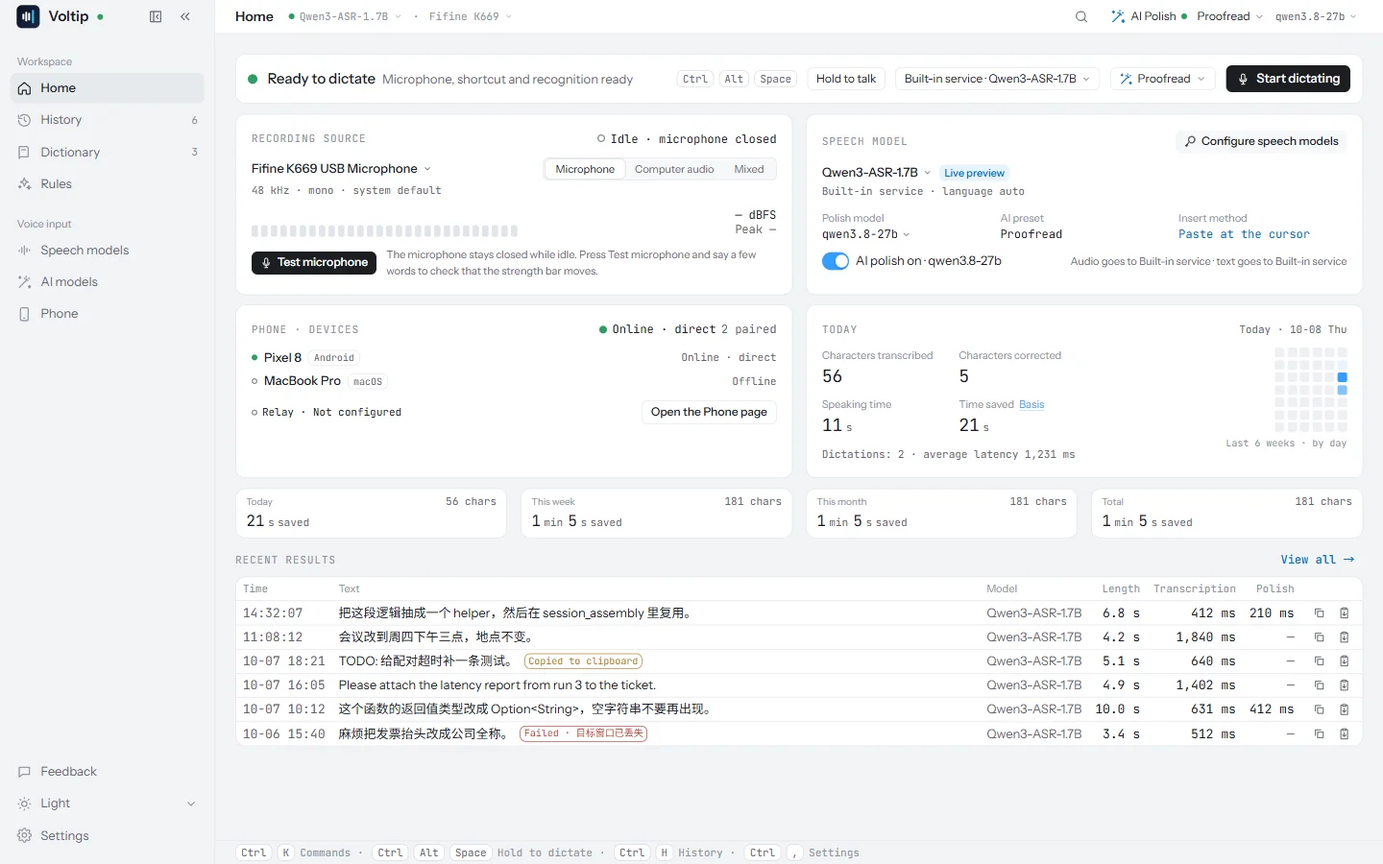
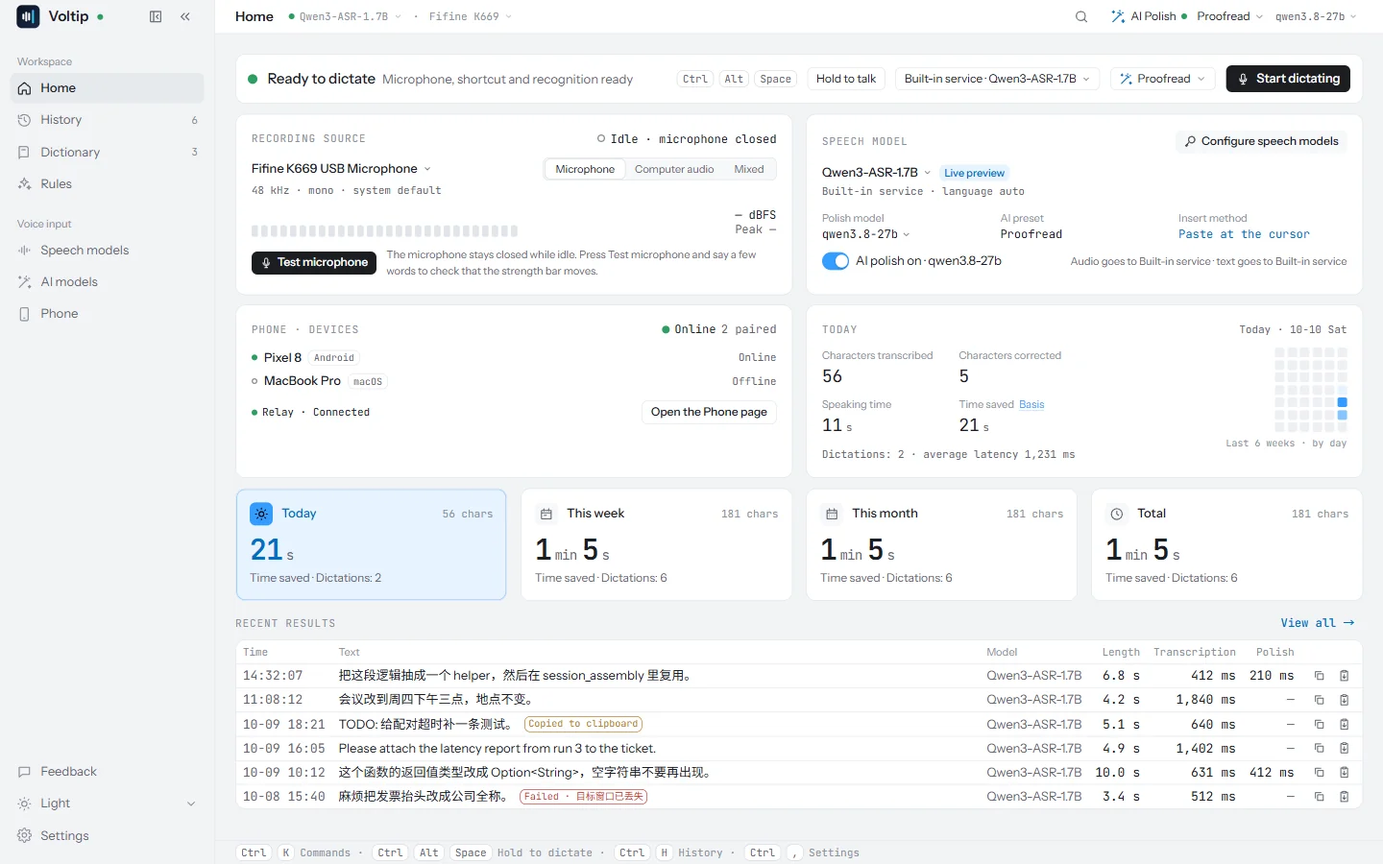
docs(voltip): sync from voltip@463c1a0
Source: https://github.com/sunerpy/voltip/commit/463c1a0e0ce2565a209d4f685dc5878d23672027

diff --git a/voltip/src/zh/dev/dictation.md b/voltip/src/zh/dev/dictation.md
@@ -323,7 +323,7 @@ pub struct HistoryEntry {
 - **每条的数字**：说话时长 = `duration_ms`；转录字数 = `raw_text` 的 Unicode 标量数；修正字数 = 去掉空白后 `raw_text` → `text` 的 Levenshtein 距离，按 Unicode 标量计（`strsim::generic_levenshtein`），超过 `CORRECTION_PIECE_CHARS = 2 000` 字时两边按相同比例切成同样多段，逐段相加；延迟 = `asr_ms + refine_ms`。
 - **分桶**：页面用 `statsBoundaries` 按本地时间算出零点，从本周一往前 5 周到明天零点，共 37–43 个；夏令时 23 或 25 小时的日子也按本地零点算。核心按 `[bᵢ, bᵢ₊₁)` 分桶，每个区间和总计都给出次数、转录字数、修正字数、说话时长和延迟合计。页面用这些区间拼出今天、本周、本月和 6 周热力图（本月的开头总在这 6 周里）。
 - **节省时间** = 说话时长 × 1.9（`SAVED_TIME_FACTOR`）。依据：Ruan 等 2016（arXiv:1608.07323）的实验里，说话输入比手机打字快约 2.9 倍（英文 153 vs 52 词/分，中文 123 vs 43），打出同样的字要多花约 1.9 倍的说话时长。首页的「依据」弹层写的是同一段说明。
-- **首页**：今日面板显示转录字数、修正字数、说话时长、节省时间，次数和平均延迟放在下面一行（窄窗口在两者之间换行），「依据」在「节省时间」旁；今天 / 本周 / 本月 / 总计四张卡第一行是范围和字数，第二行是节省时间。时长按大小换单位（`durationParts`：「21 秒」「3 分 47 秒」「79 小时 10 分」），数字大、单位小；侧栏的历史计数与页面上的计数一样加千位分隔。
+- **首页**：今日面板显示转录字数、修正字数、说话时长、节省时间，次数和平均延迟放在下面一行（窄窗口在两者之间换行），「依据」在「节省时间」旁；今天 / 本周 / 本月 / 总计四张卡（用户 2026-10-10 要求突出重点、加高）：第一行是范围的图标块（太阳、日历、月历、时钟）、范围名和字数，下面是节省时间（30 px 加粗的数字、14 px 的单位）和「节省时间 · 听写 N 次」；「今天」一张用强调色的浅色底与描边，图标块、范围名和数字都用强调色，其余三张是普通卡片。手机「记录」页的四格结构相同（「今天」用 `primaryContainer` 底、`primary` 图标块）。时长按大小换单位（`durationParts`：「21 秒」「3 分 47 秒」「79 小时 10 分」），数字大、单位小；侧栏的历史计数与页面上的计数一样加千位分隔。
 
 ## 5. IPC（bridge 与 TS 契约）
 
@@ -394,12 +394,13 @@ pub struct HistoryEntry {
 
 - **语言**：`Settings.locale`（`system` / `zh-cn` / `en`，`#[serde(default)]`，默认 `system`）由核心持久化并随 `settings` 事件广播，主窗口、胶囊窗口、手机端都读同一个值；语言解析（`system` → 跟随 OS / webview）在前端完成。`DictationPhase::Failed` 增加机器可读的 `code`（§2），前端据此本地化失败原因，`message` 仍是中文原文。
 - **开关**：`Settings.auto_update`（默认 **关**）由核心持久化；桌面 shell 订阅 `settings` 事件跟随它。
-- **更新源只来自编译期环境变量**，源码与 `tauri.conf.json` 都不含：`VOLTIP_UPDATE_URL`（静态 `latest.json` 清单地址，可含 `{{target}}` / `{{arch}}` / `{{current_version}}` / `{{bundle_type}}` 占位符）与 `VOLTIP_UPDATE_PUBKEY`（minisign 公钥）。缺任一个 → `UpdateStatus::Disabled`，`update_check` / `update_install` 返回 `updater: 此构建未配置更新源`。`tauri-plugin-updater` 初始化时需要 `plugins.updater` 配置块，shell 在 `run()` 里从这两个变量注入到 Tauri context，而不是写进配置文件。手机端永远 `disabled`（由应用商店更新）。
+- **更新源只来自编译期环境变量**，源码与 `tauri.conf.json` 都不含：`VOLTIP_UPDATE_URL`（静态 `latest.json` 清单地址，可含 `{{target}}` / `{{arch}}` / `{{current_version}}` / `{{bundle_type}}` 占位符）与 `VOLTIP_UPDATE_PUBKEY`（minisign 公钥）。缺任一个 → `UpdateStatus::Disabled`，`update_check` / `update_install` 返回 `updater: 此构建未配置更新源`。`tauri-plugin-updater` 初始化时需要 `plugins.updater` 配置块，shell 在 `run()` 里从这两个变量注入到 Tauri context，而不是写进配置文件。手机端的检查更新见 §20.9。
+- **更新镜像**（用户 2026-10-10：更新不应依赖 AWS，改用 Cloudflare 的免费资源）：可选的编译期变量 `VOLTIP_UPDATE_MIRROR` 是文档站更新通道的根地址（`https://voltip.firlab.app/updates`，发布构建取仓库变量 `vars.VOLTIP_UPDATE_MIRROR`，fork 没有这个变量就只问自己的 Release）。设置后清单地址依次为 `<mirror>/latest.json`、`VOLTIP_UPDATE_URL`：插件逐个请求，连接失败或返回非 2xx 就换下一个，安装包从答复的那份清单里的地址下载。镜像是 Cloudflare Pages Functions（`sunerpy/firlab` 的 `voltip/functions/updates/`）：清单由 GitHub 最新版本的 `latest.json` 生成，安装包地址改到 `<mirror>/download/<tag>/<file>`，缓存 5 分钟，GitHub 不可达时一周内回答最后一份可用的清单；某个机房第一次被请求某个文件时，先把它从 GitHub 拷进该机房的缓存（单个文件上限 512 MB），之后从缓存下载。镜像不签名任何东西，安装包照旧用内置公钥验签。值不是 http(s) 地址时忽略镜像、只用 `VOLTIP_UPDATE_URL`，不会因此关掉更新。2026-10-10 在中国大陆实测（直连、不走代理）：一台开发机经镜像下载 29 MB 安装包 7.2 s（约 4 MB/s），同一时段直连 GitHub 90 s 内没有收到数据；一台宁夏的 Windows 云主机经镜像 1.6–2.0 MB/s，直连 GitHub 0.3–2.1 MB/s，时段不同差别很大。
 - **状态**（`UiEvent::Update` / `UiState.update`，`#[serde(tag = "state")]`）：`idle` → `checking` → `up_to_date { version, checked_at }` | `available { version, current, notes?, date? }` → `downloading { version, received, total? }` → `ready { version }` → `installing { version }`；任一步失败 → `failed { message }`；未配置 → `disabled`。由 shell 产生，经 `Bridge::publish` 折叠进状态（同热键状态）。
 - **手动路径**：`update_check` 只问清单；`update_install`（「立即重启更新」）下载（带进度）→ 验签 → `ready` → `installing` → 安装：Windows 由 NSIS 安装器接管并自行重启应用；macOS / Linux 原地替换后 shell 请求 Tauri 重启进程。没有待安装包时 `update_install` 先检查一次。
 - **自动路径**（开关打开且构建带更新源）：启动 10 s 后检查，有新版本则后台下载到 `ready`，**不**安装；设置页显示「立即重启更新」。到达 `ready` 的版本记在 app data 目录的 `update-ready.json`；用户若直接退出再启动，下次启动检查到**同一版本**时立刻下载安装并重启（这就是「重启应用即可更新」）；比记录更新的版本仍先走 `ready`，从不悄悄安装用户没见过的包。运行中把开关打开会立即检查一次（只下载）。下载好的包不跨进程保留，所以第二次启动会重新下载。
 - **网络与失败原因**（用户报告 2026-09-29）：清单请求与安装包下载都设了连接超时 `CONNECT_TIMEOUT`（15 s，含 TCP 与 TLS）和读取超时 `READ_TIMEOUT`（30 s，任一次读取停顿超过即失败）；插件本身不设，原先要等操作系统放弃（Windows 约 20 s，其他系统更久），连接无响应时会一直停在「正在检查更新…」。`failed` 的 `message` 是完整的原因链（`update::describe`），例如 `error sending request for url (…): client error (Connect): tcp connect error: Connection refused (os error 111)`；原先只有第一段，看不出是 DNS、连接、TLS 还是超时。服务器返回非 2xx 时插件只报 `Could not fetch a valid release JSON from the remote`，不带状态码。代理：reqwest 未开 `system-proxy`，只认 `HTTP(S)_PROXY` 环境变量和 TUN，不读 Windows / macOS 的系统代理设置。
-- **发布侧**（本轮未做，记录在此）：产出 `.sig` 与 `latest.json` 需要 `bundle.createUpdaterArtifacts: true` 与 CI 上的 `TAURI_SIGNING_PRIVATE_KEY` / `TAURI_SIGNING_PRIVATE_KEY_PASSWORD`；清单托管地址即 `VOLTIP_UPDATE_URL`。
+- **发布侧**：产出 `.sig` 与 `latest.json` 需要 `bundle.createUpdaterArtifacts: true` 与 CI 上的 `TAURI_SIGNING_PRIVATE_KEY` / `TAURI_SIGNING_PRIVATE_KEY_PASSWORD`；`latest.json` 是 Release 的资产，`VOLTIP_UPDATE_URL` 即 `https://github.com/<owner>/<repo>/releases/latest/download/latest.json`（`docs/runbook.md` 发布）。本机打包取 `.env.build` 的同名变量：2026-10-10 本机测试包 0.0.53 的 `.env.build` 还是早已没有文件的旧网关镜像地址，检查更新报 403（`Could not fetch a valid release JSON from the remote`）与跨境 TLS 断开，`.env.build.example` 因此写明与发布相同的地址。
 
 
 ## 10. 本地模型（离线 ASR，2026-09-25 契约）
@@ -1467,7 +1468,7 @@ Rust：`voltip-protocol` `take_messages_roundtrip_and_are_validated`（含 `take
 - **角色**：`CoreConfig.sync_role`：桌面壳 `Computer`，手机壳 `Phone`，测试与工具默认 `Off`。电脑在每条新安全路径的 `device_info_update` 里带 `mirror: true`；手机只与宣告了它的电脑同步，没宣告的显示「电脑上的 Voltip 需要升级才能同步」。
 - **消息**（`voltip-protocol` `AppMessage`，`docs/protocol.md` §3）：`mirror_request{req, epoch?, since, profile?}`（手机 → 电脑）、`mirror_changed{head, generation}`、`mirror_revoke{generation}`、`phone_records_ack{ids}`（电脑 → 手机）、`bulk{seq, last, bytes}` 与 `bulk_ack{received}`（双向）。大的内容（`voltip-core` `sync::BulkBody`：`MirrorProfile`、`MirrorBatch`、`PhoneRecords`，CBOR，不超过 16 MiB）切成不超过 48 KiB 的片，在同一条安全路径上按序发出；拼接状态挂在这条路径的安全会话上，会话结束就丢掉，由上层超时重来。
 - **窗口**（`sync/bulk.rs`）：每条路径最多 4 片未确认，接收方每 2 片和最后一片回 `bulk_ack`；本地链路队列（`RelayLink::free_slots`）少于 17 个空位时不发下一片。同一条路径的帧经同一个队列、同一条连接按序到达，发送方要在对方回应它的新握手消息之后才能封装新会话的分片，所以旧会话与新会话的分片不会同时在接收方那条连接的队列里；同步对端最多 5 个（`voltip_identity::MAX_SYNC_PEERS`），中继每条连接上的分片至多 20 片，Bulk 层至多 30 帧，低于中继每连接 64 帧的队列（`RelayStats.dropped` 计数丢帧）。
-- **握手与旧帧**（`peer.rs` `PeerPath::classify`）：`SecureChannel::seal` 在密文会恰好是 32、96 或 64 字节（三条握手消息不带负载时的长度）时补一个零字节，所以传输帧不会被当成握手消息；握手只接受这一步应有长度的载荷，空闲路径只在 32 字节时开始应答，等第三条消息的应答方收到新的第一条消息时重新应答。中继路径的握手失败或超时后，发起方在对端仍在频道上时 2 秒后重来，逐次加倍到 60 秒，成功后复位。发起方发出第三条消息就进入加密通道，但这条消息可能在应答方等待超时之后才到，此时应答方已回到空闲，丢弃之后的一切。所以发起方在新通道上第一次解开对方的消息之前，通道算作未确认；建立后超过握手时限（`peer_handshake_timeout`）仍未确认，就按握手失败处理，回到空闲并按上面的退避重来。应答方的加密通道收到 32 字节的载荷，即发起方新的第一条消息，就丢弃旧通道、重新应答（2026-10-02，Windows 构建机上复现：应答方忙于处理上传，第三条消息晚到约 0.8 秒，手机的记录再也没有送到电脑）。
+- **握手与旧帧**（`peer.rs` `PeerPath::classify`）：`SecureChannel::seal` 在密文会恰好是 32、96 或 64 字节（三条握手消息不带负载时的长度）时补一个零字节，所以传输帧不会被当成握手消息；握手只接受这一步应有长度的载荷，空闲路径只在 32 字节时开始应答，等第三条消息的应答方收到新的第一条消息时重新应答。握手失败或超时后，发起方在对端仍在频道上时 2 秒后重来，逐次加倍到 30 秒（0.1.0 前为 60 秒），成功后复位。发起方发出第三条消息就进入加密通道，但这条消息可能在应答方等待超时之后才到，此时应答方已回到空闲，丢弃之后的一切。所以发起方在新通道上第一次解开对方的消息之前，通道算作未确认；建立后超过握手时限（`peer_handshake_timeout`）仍未确认，就按握手失败处理，回到空闲并按上面的退避重来。应答方的加密通道收到 32 字节的载荷，即发起方新的第一条消息，就丢弃旧通道、重新应答（2026-10-02，Windows 构建机上复现：应答方忙于处理上传，第三条消息晚到约 0.8 秒，手机的记录再也没有送到电脑）。
 - **电脑：变化的编号**（`history/revs.rs`，`history.sqlite3` 版本 2，只加表）：`sync_revs` 记每个条目最新的 rev 与删除记录，每个写操作在同一事务里取新 rev；比所有现存条目都早的删除记录被裁掉，`sync_floor` 记被裁掉的最大 rev。`changes_since(epoch, since, budget)`：空镜像、另一个历史库（`sync_epoch` 不同）、`since` 低于 floor 或高于 head 时，从 0 起只发现存条目（`reset`），否则发 `since` 之后的变化；按实际编码大小累计到 1 MiB，至少一条；`segments` 不发；编码超过 `MAX_BULK_BYTES - 64 KiB` 的条目改发有界投影（三段正文各 10 万字，其余字符串各 256 字，列进 `shortened`）。打开旧库时为已有条目补上 rev。
 - **电脑：答复与提示**（`runtime/sync.rs`）：收到请求时，这部手机的同步关着就回 `mirror_revoke`，否则替换它的待答请求（丢掉还没发完的旧回复），记为订阅者；随后设置标签不同时先发 `MirrorProfile`，再发一批 `MirrorBatch`。历史或设置变化后的下一个 tick，给每个订阅者发 `mirror_changed`，每部手机同时至多一条没有得到回应（下一个请求之前不再发；发 `mirror_revoke` 时这道限制重新开始）。
 - **电脑：收下手机的记录**：`insert_received` 写入一次（`origin = { device: 手机名, kind: standalone }`，`segments` 置空），id 已在历史或 90 天内收过的不再写入（所以电脑删掉的副本不会因为重发复活），然后对整批回 `phone_records_ack`。电脑关闭了历史记录时照样确认，但不写入。
@@ -1476,7 +1477,7 @@ Rust：`voltip-protocol` `take_messages_roundtrip_and_are_validated`（含 `take
 - **手机：上传**（2026-10-02 决定：上传副本，手机保留）：发件箱是手机自己 `history.sqlite3` 里 `origin` 为空、不在 `uploaded` 表里的条目，按时间从旧到新（发给电脑的听写的记录 `origin` 为 `sent`，不在其中，电脑已有自己的记录）；`uploaded` 引用 `entries` 并级联删除，迟到的确认只给仍存在的条目写行。一次只有一批在途（至多 200 条、1 MiB，超过 `MAX_BULK_BYTES - 64 KiB` 的条目跳过并列进 `UiState.phone_outbox_too_large`），发给本次上线最早的电脑；最后一片发出后 60 秒没有确认就重新选择，新路径上的设备信息让在途的一批重发一次。只同步按配对时间最早的 5 台电脑。
 - **开关**：可信记录的 `sync` / `sync_gen`（`docs/pairing.md`「同步与重新配对」）；`device_sync_set { publicKey, on }` 只在电脑上有效：关闭时发 `mirror_revoke`（在线时），之后的请求与上传都回 `mirror_revoke`；打开时发 `mirror_changed`，手机从 0 重新拉取。第 6 部手机打不开（「最多与 5 部手机同步」）。
 - **桥接与界面**：`mirror_history_query { desktop, … }`、`mirror_history_entry { desktop, id }`（带 `shortened`）、`mirror_profile { desktop }`；`UiState.mirrors`（每台电脑的状态 `syncing` / `up_to_date` / `offline` / `revoked` / `needs_upgrade` / `limit`、条数、最近同步时间、不带四个列表的设置）。手机「记录」页顶部切换「这部手机 / 电脑名」（选中的电脑是导航栈里这一页的参数，打开详情再返回仍在这台电脑，从标签栏回来是「这部手机」），电脑视图只读：没有统计、收藏、删除和重新处理；详情可以复制、分享（超过 `MAX_PASTE_TEXT_CHARS` 时写明无法整段复制），被截短的条目写明。「设置 › 电脑」每台电脑一行，点开是只读的「电脑设置」页。电脑设备页每部手机一个「同步」开关，忘记离线手机时确认框写明它上面的副本会保留。
-- **门禁**：`crates/voltip-core/tests/sync.rs`（17 个场景，真实中继：历史到达与跟随、3000 条分批、设置、进程被杀、确认丢失与防复活、开关与丢失的撤销、重新配对、过大记录、慢的手机、5 部手机同时、局域网路径中途断开、旧会话分片在重新 attach 后到达新连接（含手机进程重启））；`history/tests.rs`、`sync/{bulk,wire,mirror}.rs`、`peer.rs`、`trusted.rs`、`secure.rs` 的单测（各回归测试在没有修复时失败）；IPC 夹具与 `ipc-contract.test.ts`；手机 `Mirror.test.tsx`、电脑 `Devices.test.tsx`；两个壳的 `tests/ipc.rs`。真机项见 `docs/acceptance/android/manual-checklist.md` 第 14–16 项。
+- **门禁**：`crates/voltip-core/tests/sync.rs`（17 个场景，真实中继：历史到达与跟随、3000 条分批、设置、进程被杀、确认丢失与防复活、开关与丢失的撤销、重新配对、过大记录、慢的手机、5 部手机同时、中继路径中途无声断开（0.1.0 前是局域网路径）、旧会话分片在重新 attach 后到达新连接（含手机进程重启））；`history/tests.rs`、`sync/{bulk,wire,mirror}.rs`、`peer.rs`、`trusted.rs`、`secure.rs` 的单测（各回归测试在没有修复时失败）；IPC 夹具与 `ipc-contract.test.ts`；手机 `Mirror.test.tsx`、电脑 `Devices.test.tsx`；两个壳的 `tests/ipc.rs`。真机项见 `docs/acceptance/android/manual-checklist.md` 第 14–16 项。
 
 ### 20.9 手机更新（2026-10-02 用户要求）
 
@@ -1484,7 +1485,7 @@ Rust：`voltip-protocol` `take_messages_roundtrip_and_are_validated`（含 `take
 
 - **来源**：启动后读一次系统记录的安装来源（Android 11 起 `getInstallSourceInfo`，之前 `getInstallerPackageName`；React Native 版在 `VoltipHost.kt` 的 `installer()`，Tauri 版在 `UpdatePlugin.kt`），读到之前 `update_check` 与 `update_install` 被拒（`updater: 正在读取安装来源，请稍后再试`）。`com.android.vending`（Google Play）为 `InstallSource::Store`；其他情况（打开 GitHub 发布页安装包的浏览器或文件管理器、`adb`、没有记录）为 `Direct`。
 - **Google Play 安装**：读到安装来源后即为 `UpdateStatus::Store { version }`（`store`）。`update_check` 不访问任何地方，`Settings.auto_update` 也不触发检查；`update_install` 在浏览器中打开 `https://play.google.com/store/apps/details?id=<包名>`，Android 会交给 Play 应用。不引入 Play Core 的应用内更新库：它是专有许可，与 AGPL 不兼容，而 Google Play 本身会自动更新应用。
-- **其他安装**：状态从 `idle` 开始。`update_check` 在后台查询 `https://api.github.com/repos/<owner>/<repo>/releases/latest`（由 `REPOSITORY` 得出，带 User-Agent，连接 10 s、读取 30 s）。标签 `vX.Y.Z` 按数字比较：更新则为 `available { version, current, notes（发布说明）, date（published_at） }`，并记下资产 `Voltip_<版本>_android_arm64.apk` 的地址；不更新则为 `up_to_date`；新版本缺少 APK、版本号无法识别、403/429（GitHub 每小时的查询次数有限）或其他失败为 `failed { message }`。检查进行中再次检查会被拒（`updater: 正在检查更新`）。
+- **其他安装**：状态从 `idle` 开始。`update_check` 在后台依次查询 `<mirror>/android.json`（构建带 `VOLTIP_UPDATE_MIRROR` 时，§9）与 `https://api.github.com/repos/<owner>/<repo>/releases/latest`（由 `REPOSITORY` 得出），第一个答复的为准，都失败时报镜像的原因（`无法连接更新服务器：…`）；带 User-Agent，连接 10 s、读取 30 s。镜像的 `android.json` 与 GitHub 最新版本接口同形（`tag_name`、`body`、`published_at`、`assets`），APK 地址在镜像上。标签 `vX.Y.Z` 按数字比较：更新则为 `available { version, current, notes（发布说明）, date（published_at） }`，并记下资产 `Voltip_<版本>_android_arm64.apk` 的地址；不更新则为 `up_to_date`；新版本缺少 APK、版本号无法识别、403/429（GitHub 每小时的查询次数有限）或其他失败为 `failed { message }`。检查进行中再次检查会被拒（`updater: 正在检查更新`）。
 - **安装**：`update_install` 在浏览器中打开新版本的 APK，由浏览器下载，用户打开后由系统安装；Android 只接受与已安装版本签名相同的安装包。应用本身不下载、不安装：Google Play 不允许上架的应用绕过 Play 自行更新，所需的 `REQUEST_INSTALL_PACKAGES` 权限也不能用于这个目的，而 APK 与 Google Play 的 AAB 来自同一份清单。没有检查到新版本时，`update_install` 被拒（`updater: 没有可下载的新版本，请先检查更新`）。
 - **自动检查**：跟随 `Settings.auto_update`（默认关闭，与电脑相同）：启动时已开启，10 s 后检查一次；之后开启，立即检查一次。
 - **界面**：设置 › 关于 的「软件更新」卡片。Google Play 安装显示「由 Google Play 更新」和「在 Google Play 中打开」；其他安装显示状态行（与电脑的措辞相同）、有新版本时的更新说明和「下载新版本」、「检查更新」，以及「自动检查更新」开关。

diff --git a/voltip/src/zh/dev/frontend.md b/voltip/src/zh/dev/frontend.md
@@ -30,13 +30,12 @@ Tauri command 名与参数（`invoke(name, args)`），返回值 JSON：
 | `pairing_start` | — | `null` |
 | `pairing_join_code` | `{ code: string }` | `null` |
 | `pairing_join_ticket` | `{ uri: string }` | `null` |
-| `pairing_join_nearby` | `{ fingerprint: string }` | `null`（`docs/pairing.md`「局域网发现」：加入 `UiState.nearby` 里这台设备等待的配对；没看到它或它不在配对为 `error` 事件） |
 | `pairing_confirm` / `pairing_reject` / `pairing_cancel` / `pairing_reset` | — | `null` |
 | `device_forget` | `{ publicKey: hex }` | `null` |
 | `device_rename` | `{ name: string }` | `null` |
 | `send_text` | `{ publicKey: hex, body: string }` | `null` |
 | `settings_set_relay` | `{ url: string \| null, enabled: boolean }` | `null` |
-| `settings_set_lan_discovery` | `{ enabled: boolean }` | `null`（持久化 `Settings.lan_discovery` 并回发 `settings`，随即开始或停止公布与浏览） |
+| `relay_reconnect` | — | `null`（`docs/pairing.md`「重连」：网络恢复或窗口回到前台时，中继连接立即检查一次；桌面主窗口在 `online` 与 `visibilitychange` 时发送） |
 | `settings_set_pairing_always_on` | `{ enabled: boolean }` | `null`（`docs/pairing.md`「常开配对」：持久化 `Settings.pairing_always_on` 并回发 `settings`；打开即开一个会话，关掉即关闭还没人加入的会话；手机上为 `error` 事件） |
 | `settings_set_theme` | `{ theme: ThemeId, followSystem: boolean }` | `null` |
 | `devices_refresh` | — | `null` |
@@ -87,7 +86,7 @@ type OutputMode = "whole_take" | "streaming_final" | "live_inject"; // docs/dict
 type Activation = "hold" | "toggle" | "hold_or_toggle";               // docs/dictation.md §13
 type ProviderId = "builtin" | "local" | "openai" | "groq" | "siliconflow" | "aliyun" | "deepseek" | "ollama" | "custom"; // docs/dictation.md §3
 interface EngineSettings { asr_provider: ProviderId /* default "builtin" */; llm_provider: ProviderId /* default "builtin" */; refine_enabled: boolean; providers: Partial<Record<ProviderId, { asr_model?: string; asr_url?: string; llm_model?: string; llm_url?: string }>>; local_model?: string | null; local_device: "auto" | "cpu" | "gpu"; local_gpu?: string | null; local_threads?: number | null /* §10.6 */; language?: string; live_preview: boolean /* default true, §11 */; output_mode: OutputMode /* default "whole_take" */; vad_trim: boolean /* default false */; chinese_script: "simplified" | "traditional" | "as_is" /* default "simplified", §17 */; inject: "paste" | "clipboard_only" }
-interface Settings { schema: 1; theme: ThemeId; follow_system_theme: boolean; relay_url?: string; relay_enabled: boolean; hotkey: string; engines: EngineSettings; locale: "system" | "zh-cn" | "en" /* default "system" */; auto_update: boolean /* default false */; activation: Activation /* default "hold" */; hold_threshold_ms: number /* default 300 */; extra_recording_ms: number /* default 0 */; edit_hotkey: string | null /* §19，default "Ctrl+Alt+E"，null = 关闭 */; solo_key: SoloKey | null /* §13.1，default null = 关闭 */; lan_discovery: boolean /* docs/pairing.md，default true */; pairing_always_on: boolean /* docs/pairing.md「常开配对」，default false */ }
+interface Settings { schema: 1; theme: ThemeId; follow_system_theme: boolean; relay_url?: string; relay_enabled: boolean; hotkey: string; engines: EngineSettings; locale: "system" | "zh-cn" | "en" /* default "system" */; auto_update: boolean /* default false */; activation: Activation /* default "hold" */; hold_threshold_ms: number /* default 300 */; extra_recording_ms: number /* default 0 */; edit_hotkey: string | null /* §19，default "Ctrl+Alt+E"，null = 关闭 */; solo_key: SoloKey | null /* §13.1，default null = 关闭 */; pairing_always_on: boolean /* docs/pairing.md「常开配对」，default false */ }
 interface DeviceIdentityPublic { device_id: string; name: string; platform: Platform; public_key: string /* 64 hex */; fingerprint: string /* "A7:C4:19:8E · 3D:F2:61:09" */ }
 interface RelayStatus { endpoint?: string; state: ConnectionState; attempts: number }
 type PairingState = { state: "idle" | "creating_session" | "waiting_for_peer" | "key_exchange" | "awaiting_verification" | "trusted" | "expired" | "rejected" }
@@ -95,8 +94,8 @@ type PairingState = { state: "idle" | "creating_session" | "waiting_for_peer" | 
 interface SafetyCode { words: [string, string, string, string]; fingerprint: string }
 interface DeviceInfo { device_id: string; name: string; platform: Platform }
 interface Snapshot { state: PairingState; session_id?: string; code?: string /* "483 921" */; ticket_uri?: string; expires_at?: number; remaining_secs?: number; safety_code?: SafetyCode; peer?: DeviceInfo; local_confirmed: boolean; peer_confirmed: boolean }
-interface TrustedDevice { device_id: string; name: string; platform: Platform; public_key: string; fingerprint: string; trusted_at: number; last_seen?: number; last_connection?: "direct" | "relay" }
-type DeviceConnection = { state: "offline" } | { state: "connecting" } | { state: "online"; via: "direct" | "relay" } | { state: "identity_changed"; presented_fingerprint: string };
+interface TrustedDevice { device_id: string; name: string; platform: Platform; public_key: string; fingerprint: string; trusted_at: number; last_seen?: number }
+type DeviceConnection = { state: "offline" } | { state: "connecting" } | { state: "online" } | { state: "identity_changed"; presented_fingerprint: string };
 interface DeviceView { device: TrustedDevice; connection: DeviceConnection }
 interface Segment { text: string; start_ms: number; end_ms: number }
 interface LiveText { committed: Segment[]; current: string; degraded?: string; injected: number /* default 0：live_inject 已粘贴的句数（§12） */ }
@@ -117,14 +116,13 @@ interface Scene { id: string; name: string; enabled: boolean; match: { apps: str
 interface AppRef { id: string; name: string }
 interface TakeContext { app: AppRef; scene?: { id: string; name: string } } // DictationStatus.context?、HistoryEntry.app? / scene?
 interface ContextSharing { app_name: boolean /* default true */; window_title: boolean /* default false */ } // Settings.context_sharing
-interface NearbyDevice { fingerprint: string /* 16 位十六进制 */; name: string; platform: Platform; pairing: boolean; trusted: boolean } // docs/pairing.md「局域网发现」
-interface UiState { identity: DeviceIdentityPublic | null; settings: Settings; secret_backend: string; relay: RelayStatus; pairing: Snapshot; devices: DeviceView[]; hotkey: HotkeyStatus; dictation: DictationStatus; history_recent: HistoryEntry[] /* 最新 20 条，每行可带 vocabulary?: { corrections, rules }（命中的 id 与次数） */; history_total: number /* 全部条数，其余用 history_query 读 */; engines: EngineStatus; update: UpdateStatus; models: ModelState[]; dictionary: DictionaryEntry[]; rules: ReplacementRule[]; nearby: NearbyDevice[] /* 局域网浏览看到的设备，default [] */ }
+interface UiState { identity: DeviceIdentityPublic | null; settings: Settings; secret_backend: string; relay: RelayStatus; pairing: Snapshot; devices: DeviceView[]; hotkey: HotkeyStatus; dictation: DictationStatus; history_recent: HistoryEntry[] /* 最新 20 条，每行可带 vocabulary?: { corrections, rules }（命中的 id 与次数） */; history_total: number /* 全部条数，其余用 history_query 读 */; engines: EngineStatus; update: UpdateStatus; models: ModelState[]; dictionary: DictionaryEntry[]; rules: ReplacementRule[] }
 type UiEvent = { type: "state" } & UiState | { type: "identity" } & DeviceIdentityPublic | { type: "settings" } & Settings | { type: "relay" } & RelayStatus
   | { type: "pairing" } & Snapshot | { type: "devices"; 0?: never } /* payload is the array: see below */ | { type: "trusted" } & TrustedDevice
   | { type: "identity_changed"; previous: TrustedDevice; presented_fingerprint: string } | { type: "message"; from: string; body: string } | { type: "error"; message: string }
   | { type: "hotkey" } & HotkeyStatus | { type: "dictation" } & DictationStatus | { type: "history"; recent: HistoryEntry[]; total: number } | { type: "engines" } & EngineStatus | { type: "update" } & UpdateStatus
   | { type: "models"; models: ModelState[] } | { type: "dictionary"; entries: DictionaryEntry[] } | { type: "rules"; rules: ReplacementRule[] }
-  | { type: "scenes"; scenes: Scene[] } /* UiState.scenes，整份替换 */ | { type: "nearby"; devices: NearbyDevice[] } /* UiState.nearby，整份替换 */;
+  | { type: "scenes"; scenes: Scene[] } /* UiState.scenes，整份替换 */;
 ```
 
 注意 serde 内部标签的细节：`UiEvent::Devices(Vec<DeviceView>)` 与 `UiEvent::State(UiState)` 等 newtype 变体在 JSON 中是 `{"type":"devices", ...}`？**不是**——serde 对 tagged newtype 变体的规则：结构体内容被展平（`state`、`identity`、`settings`、`relay`、`pairing`、`trusted` 都是结构体，会展平成 `{type, ...fields}`），而 `devices` 的内容是数组，serde 无法展平，Rust 侧已改为 `{"type":"devices","devices":[...]}`。用 zod 按上述形状校验，校验失败记录并忽略该事件。

diff --git a/voltip/src/zh/dev/threat-model.md b/voltip/src/zh/dev/threat-model.md
@@ -14,13 +14,12 @@
 | 协议降级 | `version` 强制校验；不支持则断开 | `unsupported_version_disconnects` |
 | DoS 单连接刷会话 | 每连接最多 1 个活动会话；`create_session` 每 IP 每分钟 10 次 | `session_create_rate_limit` |
 
-| LAN 主机暴露在局域网 | 主机只承载配对会话与会合频道；`attach` 者仍要过 Noise XX，身份不符即 `IdentityChanged`；频道最多 2 人；`direct_hints` 只接受 `ip:port` 字面量（不解析主机名），且只来自认证通道 | `lan_host_mode_keeps_one_pairing_session_but_serves_channels`、`direct_hints_are_bounded_and_must_be_socket_addrs`、`regression_relay_compromise_impostor_on_channel_is_flagged_not_trusted` |
-| 恶意 peer 让我拨任意 `ip:port` | hints 上限 4 个、每 tick 每设备最多一条出站连接、指数退避、连接超时 3 s；连接只做 WebSocket + 本协议 `hello` | `direct_hints_persist_survive_retrust_and_are_validated` |
+| 无声断开的连接占住频道（`channel_full`），配对设备一直连不上 | 中继每 10 s ping 每条连接，25 s 没有任何消息就关闭它并通知对方；客户端在 `channel_full` 时每 4 s 重新 attach（`docs/pairing.md`「重连」）。0.1.0 起 App 不再在局域网上监听配对与会合端口 | `regression_a_connection_gone_silent_gives_up_its_place_on_the_channel`、`regression_a_path_that_breaks_without_a_word_heals_on_its_own` |
 | 本机语音服务被其他用户、网页或局域网滥用（`docs/dictation.md` §23） | 默认只监听回环地址，`voltip-server` 监听其他地址必须加 `--allow-remote`（并警告明文），App 只监听 127.0.0.1；除 `/healthz` 外每个请求都要 32 字节随机令牌（0600 文件，常量时间比较，可随时更换），没有关闭认证的选项；不返回 CORS 头，网页读不到响应；并发与排队有上限，时长、请求体和字段有界限，原始上传不落盘；日志不记文字、音频和令牌；无头服务端只读钥匙串与 App 的文件；没有钥匙串时可以从 `VOLTIP_KEY_*` 环境变量读取密钥（只在 voltip-server，文档建议 0600 的 EnvironmentFile；同一用户的进程能读到服务的环境变量，这一点写在文档里），`--check` 和日志只给变量名 | `the_token_guards_everything_but_the_health_check`、`malformed_and_oversized_requests_are_refused`、`a_waiting_request_reads_nothing_until_it_has_a_permit_and_a_full_queue_is_refused`（`voltip-serve`）；`the_command_line_names_the_service_and_its_one_shot_actions`、`print_token_creates_the_token_once_and_prints_it_again`（`voltip-server`）；`peek` 的零写入测试（`voltip-identity`）；`keys_from_the_environment_win_over_the_keychain_and_are_named_never_printed`（`voltip-server`） |
 
 ## 已知缺口
 
 - `forward` 洪泛：Relay 对已加入会话 / 频道的转发不限速；应加每连接字节 / 帧速率上限。
-- 频道标签可被知道两把公钥的人计算出来（公钥不是秘密），攻击者可占位造成 `channel_full`（公共 Relay 与 LAN 主机同样适用）；缓解：attach 需要对频道所有者的签名挑战（下一版协议）。
+- 频道标签可被知道两把公钥的人计算出来（公钥不是秘密），攻击者可占位造成 `channel_full`；缓解：attach 需要对频道所有者的签名挑战（下一版协议）。
 - 桌面端 keyring 在 Linux 依赖 Secret Service（无守护进程时 `StoreUnavailable`，应用拒绝降级到明文文件）。
 - 本机语音服务的令牌对同一用户的所有进程可读（这就是给其他程序用的）：能读到这个文件的程序就能使用服务，包括它背后的内置服务额度。`--allow-remote` 时令牌以明文 HTTP 传输，应改用 SSH 隧道或 TLS 反向代理。

diff --git a/voltip/src/guide/updates.md b/voltip/src/guide/updates.md
@@ -24,9 +24,9 @@ On a Mac, updating from 0.0.6 or earlier asks for the permissions once more; see
 On the phone, updates are under **Settings → About**, and how they work depends on where the app came from:
 
 - Installed from Google Play, it is updated by Google Play. **Open in Google Play**, under **Updated by Google Play**, opens its page there.
-- Installed from a GitHub release, **Check for updates**, under **Updates**, asks GitHub for the latest release. When there is a newer one, **Download the new version** downloads its installer in the browser; open it when it is done to update. Your pairing, settings and history are kept. **Check automatically**, off by default, checks each time Voltip starts.
+- Installed from a GitHub release, **Check for updates**, under **Updates**, looks for the latest release on this site and then on GitHub. When there is a newer one, **Download the new version** downloads its installer in the browser; open it when it is done to update. Your pairing, settings and history are kept. **Check automatically**, off by default, checks each time Voltip starts.
 
-Android only installs an update signed like the version you have. GitHub answers a limited number of queries per hour from each network address; when the message says so, try again later.
+Android only installs an update signed like the version you have. When this site cannot be reached, Voltip asks GitHub, which answers a limited number of queries per hour from each network address; when the message says so, try again later.
 
 Voltip 0.0.50 does not check for updates, and its **About** page has no **Updates** section. Google Play updates a copy it installed; for a copy from a GitHub release, download `Voltip_<version>_android_arm64.apk` from the new release and open it: it installs over the old version. Voltip 0.0.49 and earlier find the new version with **Check for updates** as above.
 
@@ -34,7 +34,9 @@ Voltip 0.0.50 does not check for updates, and its **About** page has no **Update
 
 The text after **Update failed** names the cause, for example that the connection timed out, was refused or could not be secured. Voltip gives up when a connection to the update server takes longer than 15 seconds to open, or when the server sends nothing for 30 seconds.
 
-Updates are downloaded from GitHub. Voltip does not use the proxy set in the Windows or macOS settings. If you reach GitHub through a proxy tool, use its TUN mode, or set the `HTTPS_PROXY` environment variable and start Voltip again.
+Voltip looks for updates on this site first and downloads them from here; this site serves the same files as the GitHub release, and Voltip checks every package against its signature before installing it. When this site cannot be reached, Voltip asks GitHub instead. Voltip does not use the proxy set in the Windows or macOS settings. If you reach the internet through a proxy tool, use its TUN mode, or set the `HTTPS_PROXY` environment variable and start Voltip again.
+
+Voltip 0.0.52 and earlier ask GitHub only.
 
 ## Where your data is kept
 

diff --git a/voltip/src/zh/guide/updates.md b/voltip/src/zh/guide/updates.md
@@ -24,9 +24,9 @@ Voltip 在应用内更新。在「设置 → 通用」中：
 手机上的更新在「设置 → 关于」中，方式取决于应用从哪里安装：
 
 - 从 Google Play 安装的，由 Google Play 自动更新。「由 Google Play 更新」中的「在 Google Play 中打开」打开它在 Google Play 上的页面。
-- 从 GitHub 发布页安装的，「软件更新」中的「检查更新」会查询 GitHub 上的最新发布。有新版本时，「下载新版本」在浏览器中下载它的安装包，下载完成后打开即可更新，配对、设置和记录都会保留。「自动检查更新」默认关闭；开启后，Voltip 每次启动时检查一次。
+- 从 GitHub 发布页安装的，「软件更新」中的「检查更新」先在本站查询最新发布，再查询 GitHub。有新版本时，「下载新版本」在浏览器中下载它的安装包，下载完成后打开即可更新，配对、设置和记录都会保留。「自动检查更新」默认关闭；开启后，Voltip 每次启动时检查一次。
 
-Android 只接受与已安装版本签名相同的安装包。GitHub 对每个网络地址每小时的查询次数有限，看到「每小时的查询次数有限」时，稍后再试即可。
+Android 只接受与已安装版本签名相同的安装包。本站无法访问时，Voltip 改为查询 GitHub；GitHub 对每个网络地址每小时的查询次数有限，看到「每小时的查询次数有限」时，稍后再试即可。
 
 Voltip 0.0.50 不检查更新，「关于」中没有「软件更新」。从 Google Play 安装的由 Google Play 更新；从 GitHub 发布页安装的，从新版本的发布中下载 `Voltip_<版本>_android_arm64.apk` 并打开，即可覆盖安装。0.0.49 及更早的 Voltip 同样用「检查更新」找到新版本。
 
@@ -34,7 +34,9 @@ Voltip 0.0.50 不检查更新，「关于」中没有「软件更新」。从 Go
 
 「更新失败」后面的文字会说明原因，例如连接超时、连接被拒绝或无法建立安全连接。与更新服务器建立连接超过 15 秒，或服务器 30 秒内没有发送任何数据时，Voltip 停止这次检查。
 
-更新从 GitHub 下载。Voltip 不使用 Windows 或 macOS 设置中的代理。如果你通过代理工具访问 GitHub，请使用它的 TUN 模式，或设置环境变量 `HTTPS_PROXY` 后重新启动 Voltip。
+Voltip 先在本站检查更新并从本站下载。本站提供的文件与 GitHub 发布页上的相同，Voltip 安装前会校验每个安装包的签名。本站无法访问时，Voltip 改为连接 GitHub。Voltip 不使用 Windows 或 macOS 设置中的代理。如果你通过代理工具上网，请使用它的 TUN 模式，或设置环境变量 `HTTPS_PROXY` 后重新启动 Voltip。
+
+0.0.52 及更早的 Voltip 只连接 GitHub。
 
 ## 数据保存位置
 

diff --git a/voltip/src/phone/index.md b/voltip/src/phone/index.md
@@ -44,12 +44,12 @@ When a paired computer is online, the button reads **Send to** and the computer'
 Pairing connects one phone and one computer, once:
 
 1. On the computer, open the **Phone** page and start pairing. It shows a QR code and a 6-digit code, valid for 120 seconds.
-2. On the phone, scan the QR code, enter the 6-digit code, or tap the computer under **Computers nearby** when both are on the same network.
+2. On the phone, scan the QR code or enter the 6-digit code.
 3. Both screens show the same safety code. Check that they match, then confirm on both devices. If they do not match, reject the pairing.
 
 **Always-on pairing** on the computer keeps a pairing open for the next phone, renewing the QR code before it expires, until you turn it off. Every pairing still needs the safety code confirmed on the computer.
 
-**LAN discovery**, on by default, lets phones on the same network find the computer by name and lets paired devices find each other again after an address change. Turned off, pairing works by QR code or 6-digit code only.
+The phone and the computer meet through a relay, the built-in one unless the computer is set to another, so pairing and the connection work on any network. Turning the relay off on the computer disconnects its phones. After a network drop, or a switch between Wi-Fi and mobile data, the two reconnect on their own, usually within seconds.
 
 ## Talking on the phone
 
@@ -78,9 +78,9 @@ A paired computer syncs its history and settings to the phone, where you can rea
 ## How the connection is protected
 
 - Pairing creates an encrypted connection and asks you to compare the safety code, so that nobody in between can pretend to be one of the devices.
-- Afterwards, the devices connect directly on the same network. On different networks, an optional relay forwards their traffic. Everything is encrypted end to end, so the relay cannot read audio or text.
+- Afterwards, the devices connect through the relay, which forwards their traffic. Everything is encrypted end to end, so the relay cannot read audio or text.
 - Audio is compressed with Opus before it is sent.
 - **Forget device** removes a pairing on both sides when the other device is online. The two can be paired again straight away.
-- **Connection check** tests the network path to each paired device and reports where it fails.
+- **Connection check** tests the connection to the relay and the encrypted round trip to each paired device.
 
 The phone's own dictionary, rules and scenes apply only to what the phone recognises itself; the computer's settings synced to the phone are for reading and are never used to recognise on the phone.

diff --git a/voltip/src/zh/index.md b/voltip/src/zh/index.md
@@ -13,6 +13,9 @@ hero:
       text: 下载安装
       link: /zh/guide/install
     - theme: alt
+      text: 在线体验
+      link: /zh/guide/try
+    - theme: alt
       text: 快速开始
       link: /zh/guide/quick-start
     - theme: alt
@@ -110,7 +113,7 @@ home:
       - name: 手机、历史记录与长录音
         items:
           - title: 手机当麦克风和键盘
-            body: 通过二维码、6 位验证码，或在同一局域网内点选，即可与 Android 手机配对。在手机上按住说话或输入文字，内容会出现在电脑的光标处。
+            body: 通过二维码或 6 位验证码，即可与 Android 手机配对。在手机上按住说话或输入文字，内容会出现在电脑的光标处。
             status: available
             link: /zh/phone/
           - title: iOS 应用
@@ -183,13 +186,13 @@ home:
   phone:
     items:
       - title: 配对一次
-        body: 扫描电脑上的二维码、输入 6 位验证码，或在手机的「附近的电脑」里点选这台电脑。随后两台设备会显示同一组安全码，由你核对确认。
+        body: 扫描电脑上的二维码，或输入它显示的 6 位验证码。随后两台设备会显示同一组安全码，由你核对确认。
       - title: 在手机上按住说话
         body: 音频经 Opus 压缩、端到端加密后实时传到电脑，由电脑完成识别，并把文字插入电脑的光标处。
       - title: 发送文字或剪贴板
         body: 在手机上输入文字或发送手机剪贴板，电脑会像处理听写结果一样把它插入光标处。
       - title: 不受网络限制
-        body: 在同一局域网内直接连接；不在同一网络时，可选的中继负责转发加密数据，中继无法读取其中的内容。
+        body: 无论是否在同一网络，两台设备都经中继连接。中继只转发加密数据，无法读取其中的内容；网络中断或切换后会自动重新连接。
 
   platforms:
     title: 支持的平台

diff --git a/voltip/src/index.md b/voltip/src/index.md
@@ -13,6 +13,9 @@ hero:
       text: Download
       link: /guide/install
     - theme: alt
+      text: Try it online
+      link: /guide/try
+    - theme: alt
       text: Quick start
       link: /guide/quick-start
     - theme: alt
@@ -110,7 +113,7 @@ home:
       - name: Phone, history and long recordings
         items:
           - title: Your phone as a microphone and keyboard
-            body: Pair an Android phone by QR code, a 6-digit code or a tap on the same network. Hold to talk or type on the phone, and the text appears at the computer's cursor.
+            body: Pair an Android phone by QR code or a 6-digit code. Hold to talk or type on the phone, and the text appears at the computer's cursor.
             status: available
             link: /phone/
           - title: An iOS app
@@ -183,13 +186,13 @@ home:
   phone:
     items:
       - title: Pair once
-        body: Scan the QR code on the computer, enter its 6-digit code, or tap the computer in the phone's list of computers nearby. Both screens then show the same safety code for you to confirm.
+        body: Scan the QR code on the computer or enter its 6-digit code. Both screens then show the same safety code for you to confirm.
       - title: Hold to talk on the phone
         body: The audio streams to the computer, compressed with Opus and encrypted end to end. The computer recognises it and inserts the text at its own cursor.
       - title: Send text or the clipboard
         body: Type on the phone or send its clipboard. The computer inserts it like a dictation result.
       - title: On any network
-        body: On the same network the devices connect directly. Elsewhere, an optional relay forwards the encrypted data without being able to read it.
+        body: The devices connect through a relay, on the same network or not. It forwards the encrypted data without being able to read it, and after a network drop or a switch of networks they reconnect on their own.
 
   platforms:
     title: Platforms
